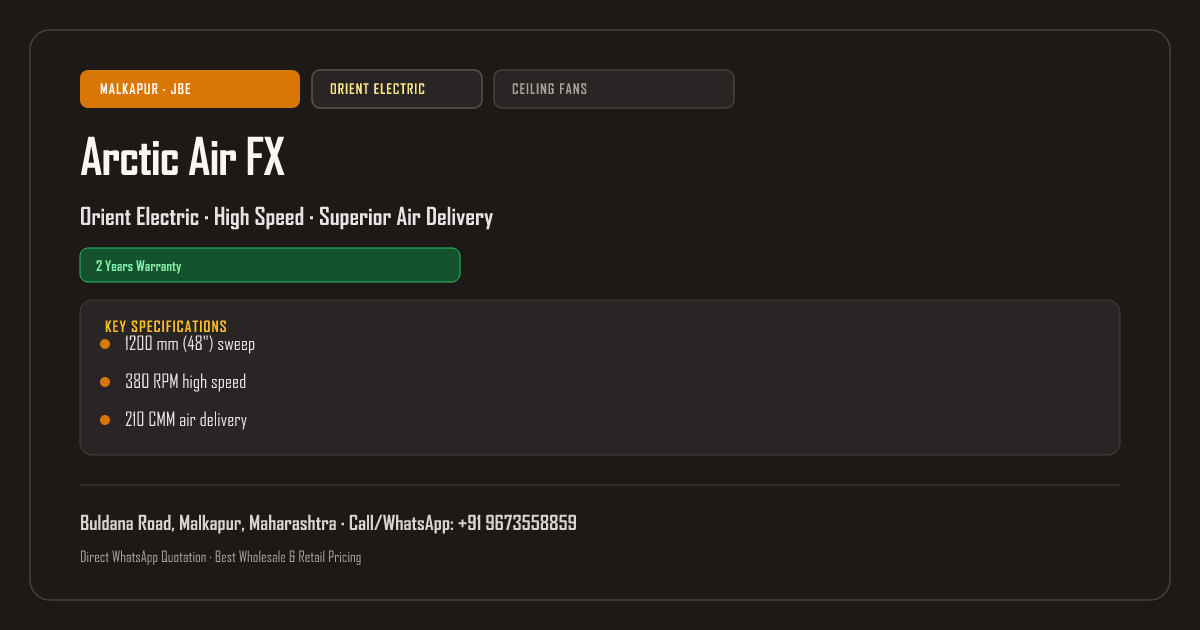
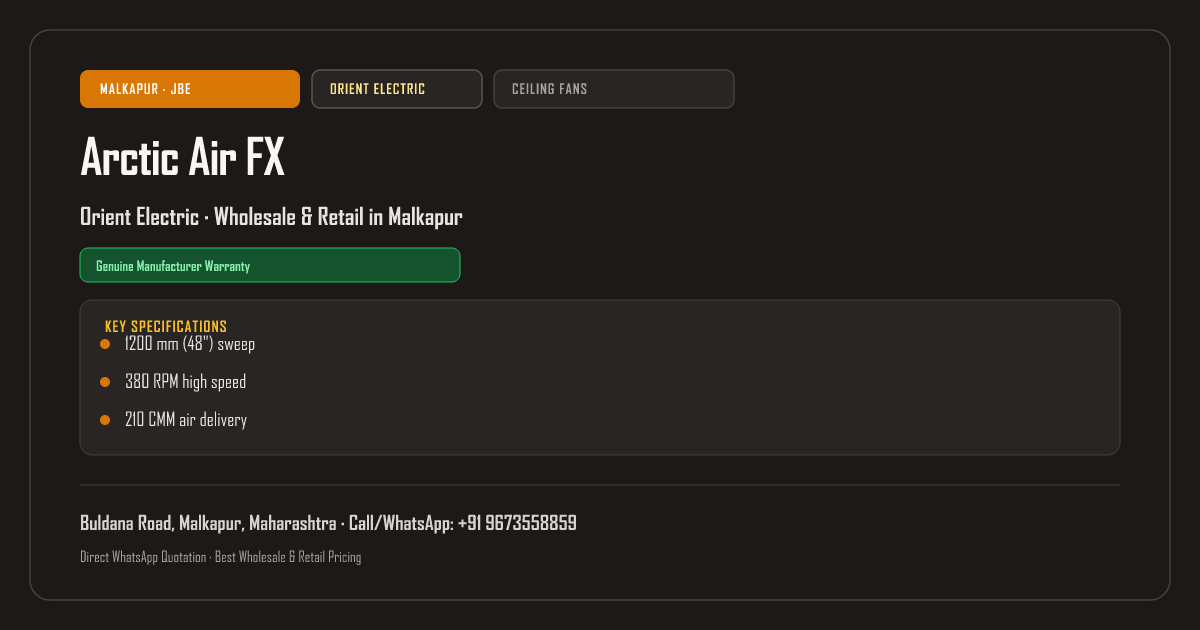
feat: add Orient Electric Summercool ceiling fan; per-model warranty for Orient fans

Changed region(s): [[0.1542, 0.3317, 0.4317, 0.3619], [0.0925, 0.3921, 0.2158, 0.4524]]

diff --git a/src/data/products.js b/src/data/products.js
@@ -106,11 +106,12 @@ export const categories = [
       },
       {
         brand: 'Orient Electric',
-        tagline: 'High Speed · Superior Air Delivery',
-        warranty: '2 Years Warranty',
+        // Tagline and warranty differ per model, so they live on each model.
         models: [
           {
             modelName: 'Arctic Air FX',
+            tagline: 'High Speed · Superior Air Delivery',
+            warranty: '2 Years Warranty',
             specs: [
               '1200 mm (48") sweep',
               '380 RPM high speed',
@@ -123,6 +124,24 @@ export const categories = [
             image: 'arctic-air-fx-brown.jpg',
             images: ['arctic-air-fx-brown.jpg'],
             priceTier: 'budget',
+          },
+          {
+            modelName: 'Summercool',
+            tagline: 'Ornamental design · Anti-corrosion blades',
+            warranty: '5 Years Warranty',
+            specs: [
+              '1200 mm (48") sweep',
+              '320 RPM',
+              '220 CMM air delivery',
+              '50 W power',
+              '16-pole motor',
+              'Anti-corrosion aluminium blades',
+              'Ornamental bottom design',
+            ],
+            colors: ['Brown'],
+            image: 'summercool-brown.jpg',
+            images: ['summercool-brown.jpg'],
+            priceTier: 'mid',
           },
         ],
       },

diff --git a/src/i18n/locales/hi.js b/src/i18n/locales/hi.js
@@ -631,5 +631,13 @@ export default {
     'Hybrid motor': 'हाइब्रिड मोटर',
     'Energy saver': 'बिजली की बचत',
     '3 blades': '3 ब्लेड',
+    'Ornamental design · Anti-corrosion blades': 'सजावटी डिज़ाइन · जंगरोधी ब्लेड',
+    '5 Years Warranty': '5 साल की वारंटी',
+    '320 RPM': '320 RPM',
+    '220 CMM air delivery': '220 CMM हवा',
+    '50 W power': '50 W बिजली खपत',
+    '16-pole motor': '16-पोल मोटर',
+    'Anti-corrosion aluminium blades': 'जंगरोधी एल्युमिनियम ब्लेड',
+    'Ornamental bottom design': 'सजावटी निचला हिस्सा',
   },
 }

diff --git a/src/i18n/locales/mr.js b/src/i18n/locales/mr.js
@@ -631,5 +631,13 @@ export default {
     'Hybrid motor': 'हायब्रिड मोटर',
     'Energy saver': 'वीज बचत',
     '3 blades': '3 पाती',
+    'Ornamental design · Anti-corrosion blades': 'नक्षीदार डिझाइन · गंजरोधक पाती',
+    '5 Years Warranty': '5 वर्षांची वॉरंटी',
+    '320 RPM': '320 RPM',
+    '220 CMM air delivery': '220 CMM हवा',
+    '50 W power': '50 W वीज वापर',
+    '16-pole motor': '16-पोल मोटर',
+    'Anti-corrosion aluminium blades': 'गंजरोधक ॲल्युमिनियम पाती',
+    'Ornamental bottom design': 'नक्षीदार खालचा भाग',
   },
 }

diff --git a/src/App.jsx b/src/App.jsx
@@ -27,7 +27,9 @@ import NotFound from './pages/NotFound'
 import Season from './pages/Season'
 
 // Service-worker registration only exists in the browser; it is never part of pre-rendering.
-const UpdatePrompt = lazy(() => import('./components/UpdatePrompt'))
+// Optional: if its chunk can't load (offline, or a tab left open across a deploy), render nothing
+// instead of letting the error reach the error boundary.
+const UpdatePrompt = lazy(() => import('./components/UpdatePrompt').catch(() => ({ default: () => null })))
 
 // Every page is imported directly (no lazy routes) so each one can be pre-rendered to HTML at
 // build time and hydrated without a loading state.

diff --git a/src/utils/catalogFilters.js b/src/utils/catalogFilters.js
@@ -35,7 +35,9 @@ function modelSearchText(names, entry, model) {
     ...names,
     entry.brand,
     model.modelName,
-    ...[entry.tagline, entry.warranty, ...(model.specs ?? []), ...(model.colors ?? [])].flatMap(productTextVariants),
+    ...[entry.tagline, entry.warranty, model.tagline, model.warranty, ...(model.specs ?? []), ...(model.colors ?? [])]
+      .filter(Boolean)
+      .flatMap(productTextVariants),
   ]
 }
 
